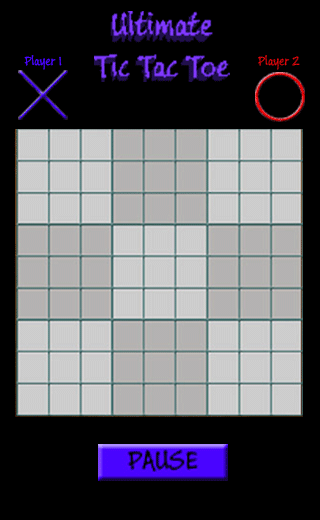
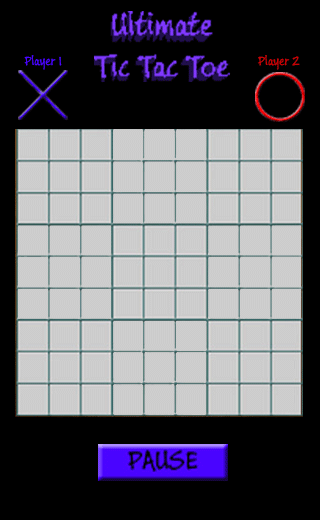
with grey sections

diff --git a/TicTacToe/UltimateTicTacToe/src/com/badlogic/androidgames/uttt/GameScreen.java b/TicTacToe/UltimateTicTacToe/src/com/badlogic/androidgames/uttt/GameScreen.java
@@ -38,15 +38,15 @@ public class GameScreen extends Screen
         {
             updateReady(touchEvents);
         }
-        if(state == GameState.Running)
+        else if(state == GameState.Running)
         {
         	updateRunning(touchEvents, deltaTime);
         }
-        if(state == GameState.Paused)
+        else if(state == GameState.Paused)
         {
             updatePaused(touchEvents);
         }
-        if(state == GameState.GameOver)
+        else if(state == GameState.GameOver)
         {
             updateGameOver(deltaTime);     
         }
@@ -59,10 +59,10 @@ public class GameScreen extends Screen
 	    	//touch screen to start
 	        if(touchEvents.size() > 0)
 	        {
-	        	//if(touchEvents.get(0).type == TouchEvent.TOUCH_DOWN)
-	        	//{
+	        	if(touchEvents.get(0).type == TouchEvent.TOUCH_UP)
+	        	{
 	        		state = GameState.Running;
-	        	//}
+	        	}
 	        } 
     	}
     }
@@ -101,7 +101,7 @@ public class GameScreen extends Screen
                 int row = (int)Math.floor((event.y - board.GRID_START_Y) / board.GRID_HEIGHT);
                 int colP = (int)Math.floor((event.x - (board.GRID_START_X + col * board.GRID_WIDTH)) / board.SQUARE_SIZE);
                 int rowP = (int)Math.floor((event.y - (board.GRID_START_Y + row * board.GRID_HEIGHT)) / board.SQUARE_SIZE);
-
+                
            //masterboard ids
                 if(row == 0 && col == 0)
                 {
@@ -178,13 +178,11 @@ public class GameScreen extends Screen
                 	miniboard_id = 8;   //btm right
                 }
                 
-<<<<<<< HEAD
                 //System.out.println("Masterboard id: " + masterboard_id);
-                //System.out.println("Miniboards: rowP = " + rowP + ", colP = " + colP);
-=======
-                System.out.println("Masterboard id: " + masterboard_id);
-                System.out.println("Miniboards: rowP = " + rowP + ", colP = " + colP);
->>>>>>> origin/master
+                //System.out.println("Miniboard id: " + miniboard_id);
+                
+                Graphics g = game.getGraphics();
+                
                 
                 if(isFirstMove)
                 {
@@ -606,6 +604,42 @@ public class GameScreen extends Screen
         Graphics g = game.getGraphics();
         g.drawPixmap(Assets.background, 0, 0);
         board.present();
+        if(nextMove == 0 && !isFirstMove)
+        {
+        	g.drawPixmap(Assets.GSec0, 0, 0);
+        }
+        else if(nextMove == 1 && !isFirstMove)
+        {
+        	g.drawPixmap(Assets.GSec1, 0, 0);
+        }
+        else if(nextMove == 2 && !isFirstMove)
+        {
+        	g.drawPixmap(Assets.GSec2, 0, 0);
+        }
+        else if(nextMove == 3 && !isFirstMove)
+        {
+        	g.drawPixmap(Assets.GSec3, 0, 0);
+        }
+        else if(nextMove == 4 && !isFirstMove)
+        {
+        	g.drawPixmap(Assets.GSec4, 0, 0);
+        }
+        else if(nextMove == 5 && !isFirstMove)
+        {
+        	g.drawPixmap(Assets.GSec5, 0, 0);
+        }
+        else if(nextMove == 6 && !isFirstMove)
+        {
+        	g.drawPixmap(Assets.GSec6, 0, 0);
+        }
+        else if(nextMove == 7 && !isFirstMove)
+        {
+        	g.drawPixmap(Assets.GSec7, 0, 0);
+        }
+        else if(nextMove == 8 && !isFirstMove)
+        {
+        	g.drawPixmap(Assets.GSec8, 0, 0);
+        }
     }
     
     private void drawPausedUI() 

diff --git a/TicTacToe/UltimateTicTacToe/src/com/badlogic/androidgames/uttt/LoadingScreen.java b/TicTacToe/UltimateTicTacToe/src/com/badlogic/androidgames/uttt/LoadingScreen.java
@@ -27,9 +27,20 @@ public class LoadingScreen extends Screen
         Assets.credits = g.newPixmap("CreditsScreen.png", PixmapFormat.ARGB4444);
         Assets.ready = g.newPixmap("ready.png", PixmapFormat.ARGB4444);  //touch to start
         Assets.pause = g.newPixmap("PauseMenu.png", PixmapFormat.ARGB4444);
-        //Assets.gameOver = g.newPixmap("gameover1.png", PixmapFormat.ARGB4444);
+        //Assets.gameOver1 = g.newPixmap("gameover1.png", PixmapFormat.ARGB4444);
+        //Assets.gameOver2 = g.newPixmap("gameover2.png", PixmapFormat.ARGB4444);
+        //Assets.gameOverC = g.newPixmap("gameoverC.png", PixmapFormat.ARGB4444);
         Assets.x = g.newPixmap("x.png", PixmapFormat.ARGB4444);
         Assets.o = g.newPixmap("o.png", PixmapFormat.ARGB4444);
+        Assets.GSec0 = g.newPixmap("GSec0.png", PixmapFormat.ARGB4444);
+        Assets.GSec1 = g.newPixmap("GSec1.png", PixmapFormat.ARGB4444);
+        Assets.GSec2 = g.newPixmap("GSec2.png", PixmapFormat.ARGB4444);
+        Assets.GSec3 = g.newPixmap("GSec3.png", PixmapFormat.ARGB4444);
+        Assets.GSec4 = g.newPixmap("GSec4.png", PixmapFormat.ARGB4444);
+        Assets.GSec5 = g.newPixmap("GSec5.png", PixmapFormat.ARGB4444);
+        Assets.GSec6 = g.newPixmap("GSec6.png", PixmapFormat.ARGB4444);
+        Assets.GSec7 = g.newPixmap("GSec7.png", PixmapFormat.ARGB4444);
+        Assets.GSec8 = g.newPixmap("GSec8.png", PixmapFormat.ARGB4444);
         Assets.click = game.getAudio().newSound("click.mp3");
         
         Settings.load(game.getFileIO());

diff --git a/TicTacToe/UltimateTicTacToe/src/com/badlogic/androidgames/uttt/Board.java b/TicTacToe/UltimateTicTacToe/src/com/badlogic/androidgames/uttt/Board.java
@@ -5,23 +5,16 @@ import com.badlogic.androidgames.framework.Graphics;
 
 public class Board
 {
-<<<<<<< HEAD
     final int GRID_START_X = 16;
     final int GRID_START_Y = 128;
     final int GRID_WIDTH = 96;
     final int GRID_HEIGHT = 96;
     final int SQUARE_SIZE = 32;
-=======
-    static final int GRID_START_X = 16;
-    static final int GRID_START_Y = 128;
-    static final int GRID_WIDTH = 96;
-    static final int GRID_HEIGHT = 96;
-    static final int SQUARE_SIZE = 32;
     float xLoc = 0;
     float yLoc = 0;
->>>>>>> origin/master
     TicTacToeGrid grids[][] = new TicTacToeGrid[3][3];
     //public boolean gameOver = false;
+    
     public Game game;
     
     public Board(Game game)
@@ -57,7 +50,6 @@ public class Board
     				{
     					xLoc = GRID_START_X + col * GRID_WIDTH + (i % 3) * SQUARE_SIZE;
     					yLoc = GRID_START_Y + row * GRID_HEIGHT + (i / 3) * SQUARE_SIZE;
-
     					g.drawPixmap(Assets.x, (int)xLoc, (int)yLoc);
     				}
     				//if the grid square is o

diff --git a/TicTacToe/UltimateTicTacToe/src/com/badlogic/androidgames/uttt/Assets.java b/TicTacToe/UltimateTicTacToe/src/com/badlogic/androidgames/uttt/Assets.java
@@ -17,9 +17,11 @@ public class Assets
     public static Pixmap ready;
     public static Pixmap pause;
     //public static Pixmap gameOver1;
+    //public static Pixmap gameOver2;
+    //public static Pixmap gameOverC;
     public static Pixmap x;
     public static Pixmap o;
-    public static Sound click;
+    public static Pixmap GSec0;
     public static Pixmap GSec1;
     public static Pixmap GSec2;
     public static Pixmap GSec3;
@@ -28,5 +30,5 @@ public class Assets
     public static Pixmap GSec6;
     public static Pixmap GSec7;
     public static Pixmap GSec8;
-    public static Pixmap GSec9;
+    public static Sound click;
 }
